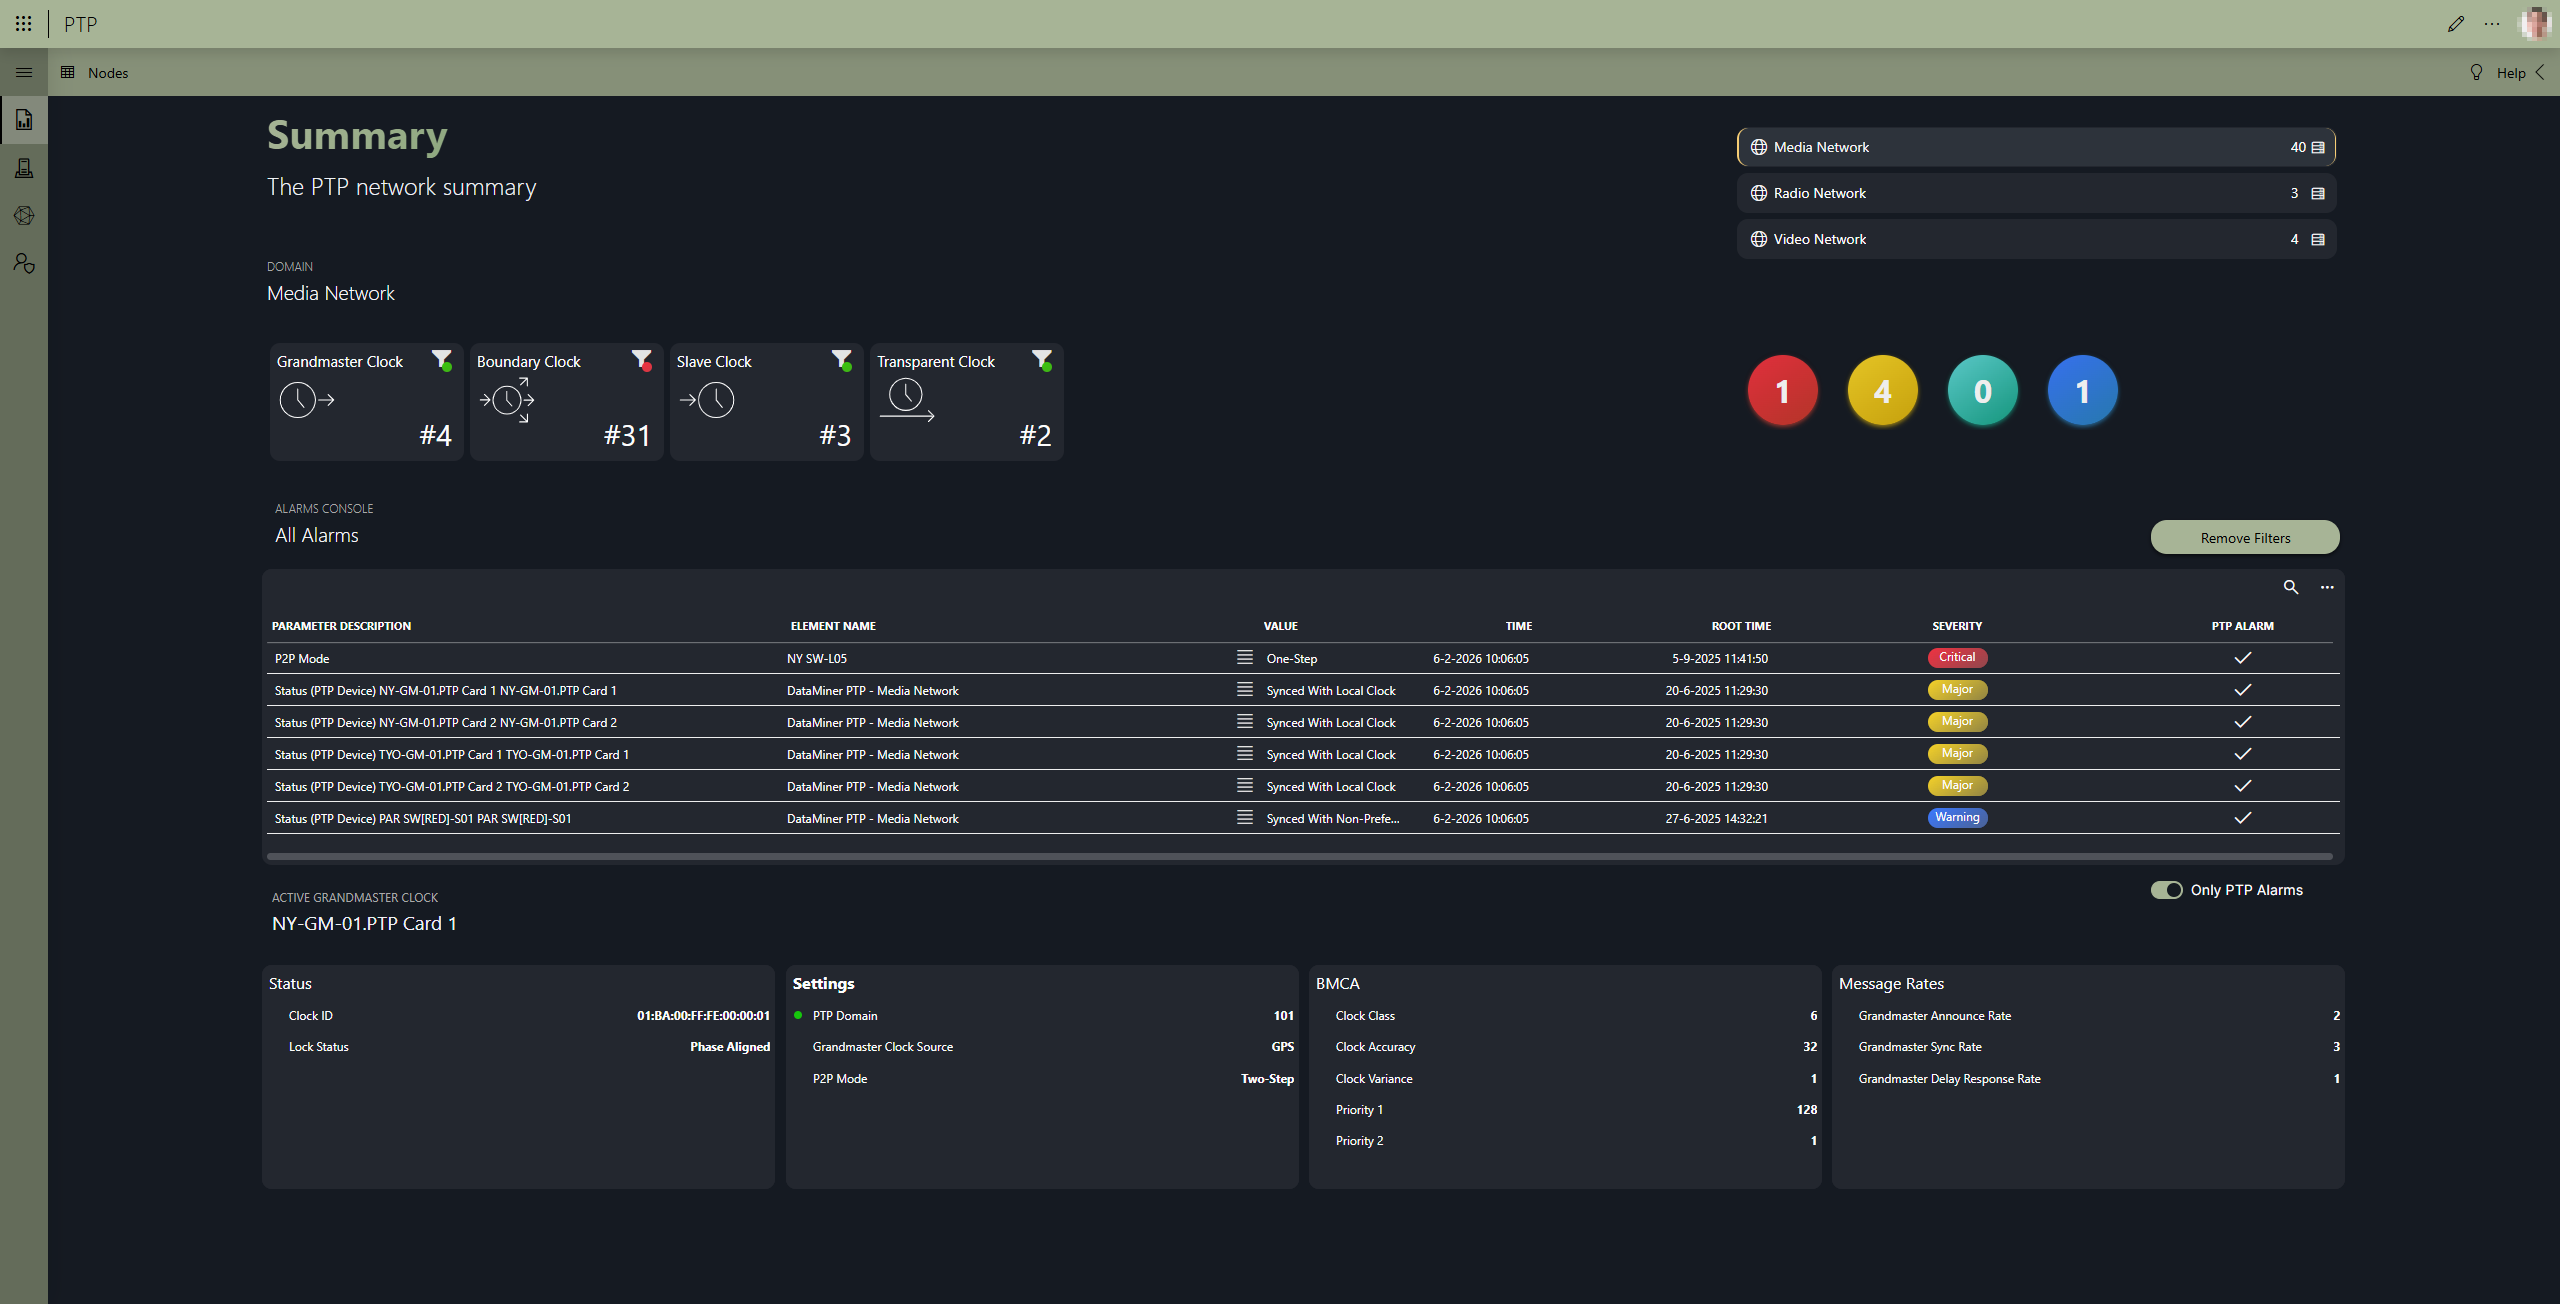
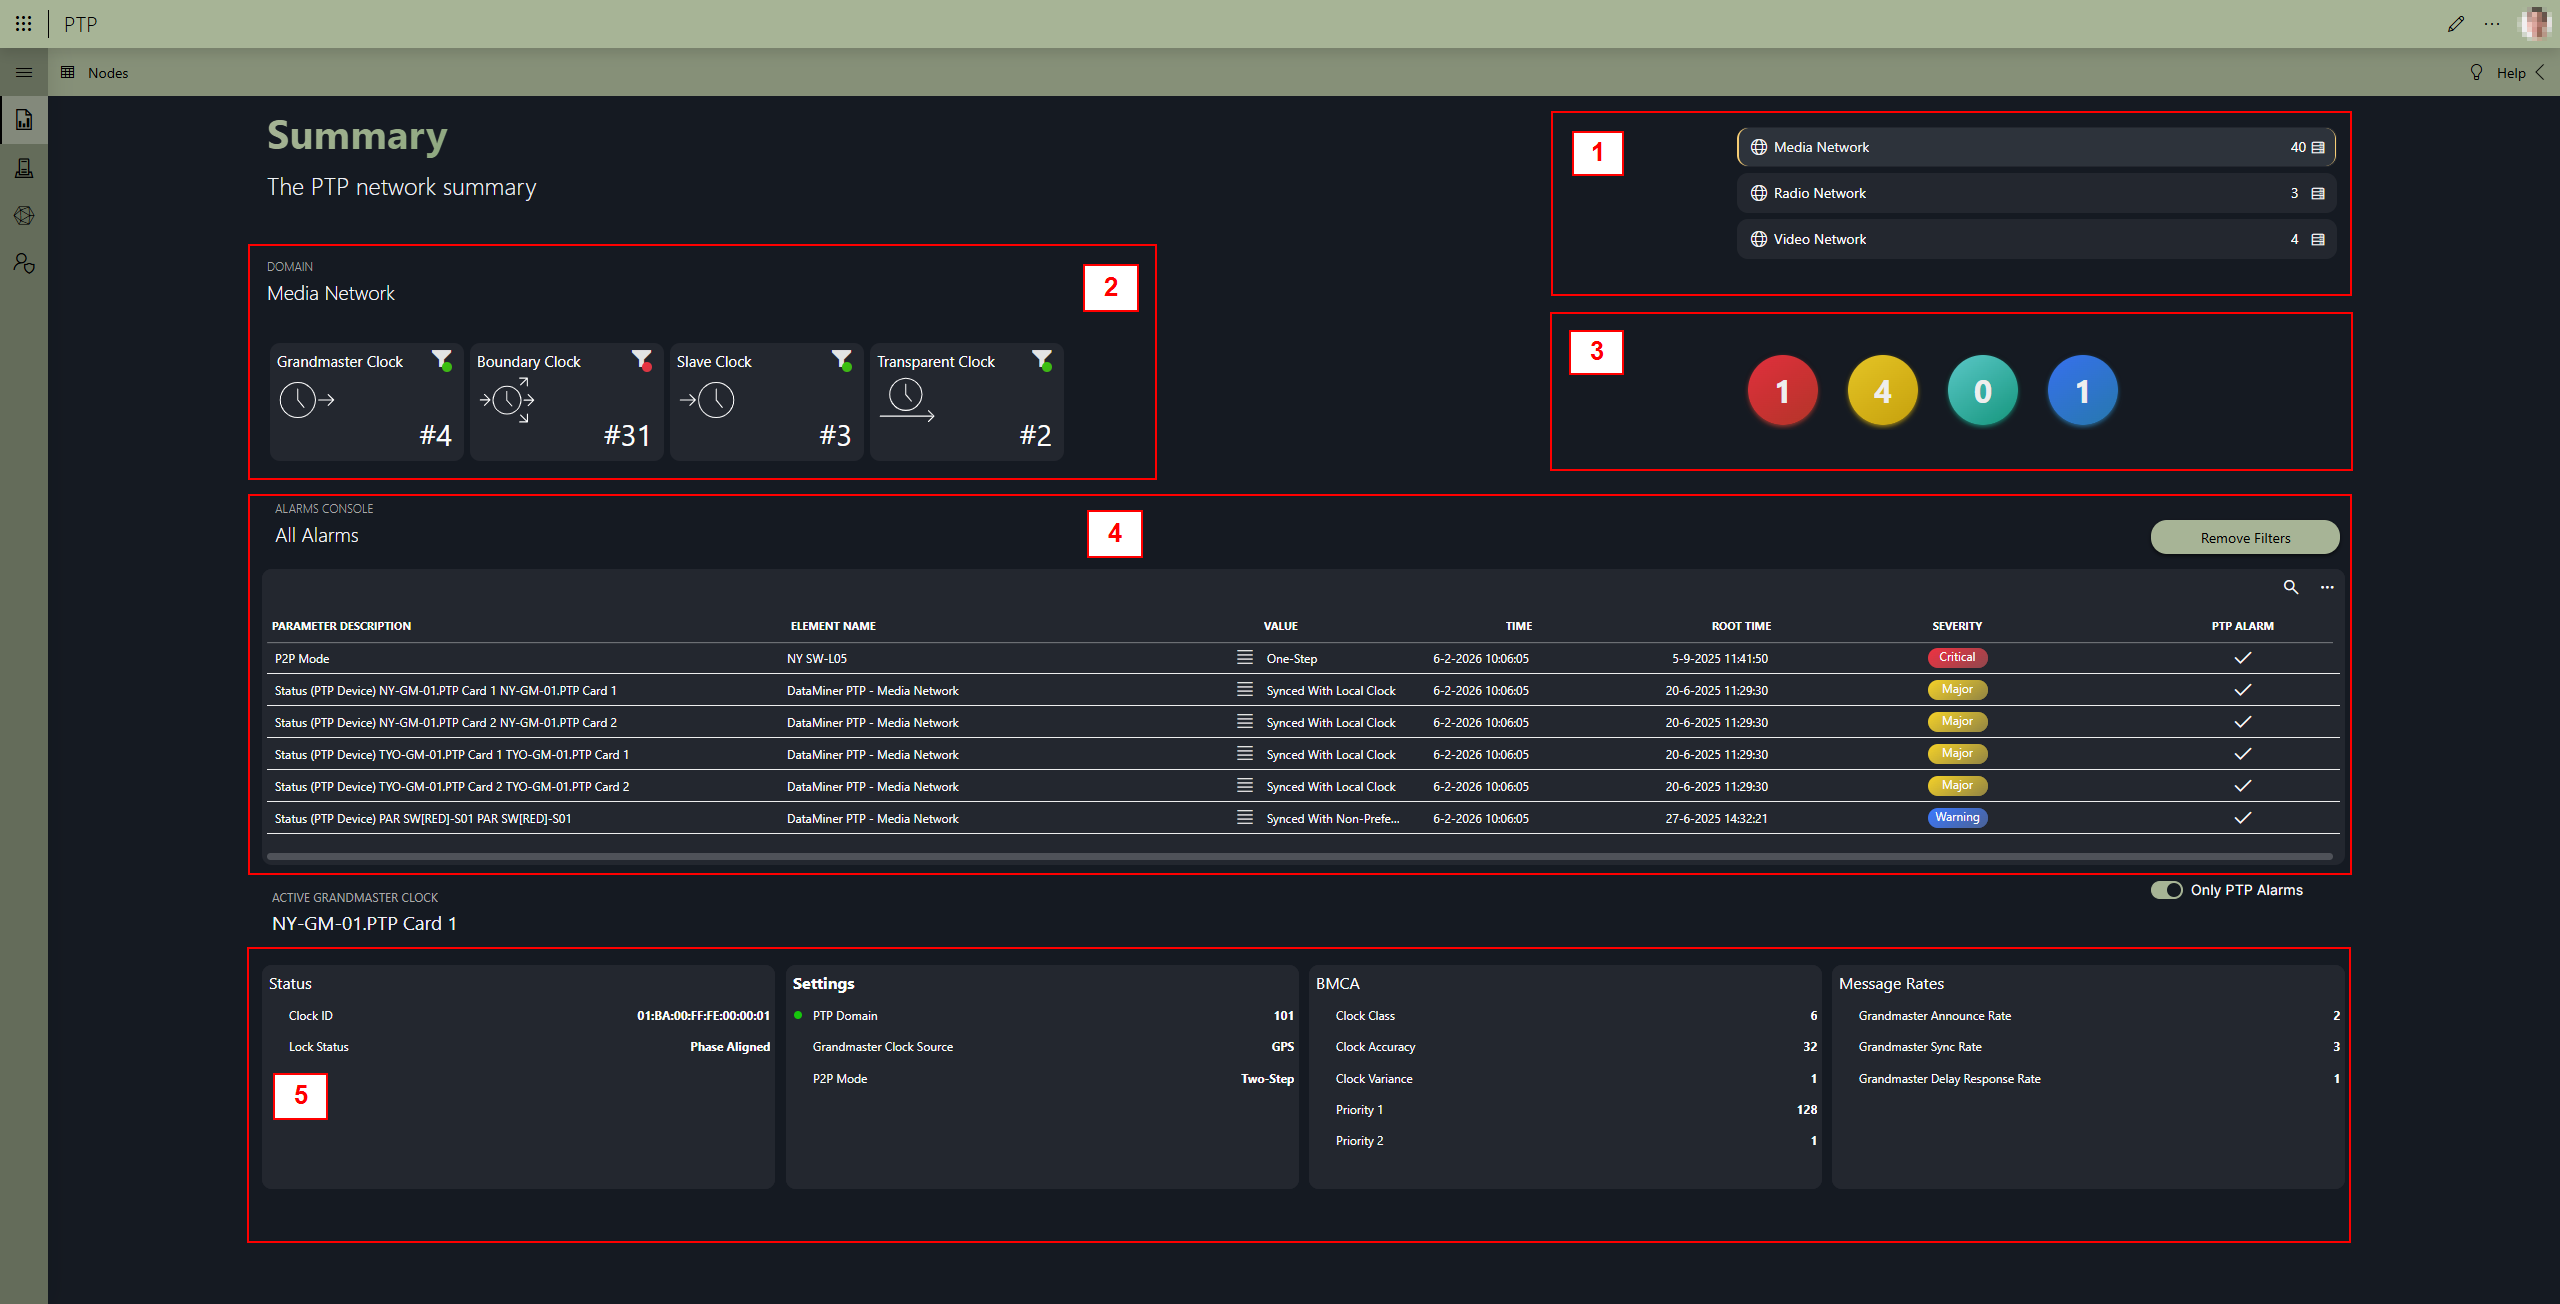
Review

diff --git a/solutions/standard_solutions/PTP/Overview_of_the_PTP_LCA_UI.md b/solutions/standard_solutions/PTP/Overview_of_the_PTP_LCA_UI.md
@@ -15,48 +15,52 @@ From PTP version 1.2.0 onwards, a DataMiner low-code app is available with the f
 
 This page shows a list of configured PTP domains and a summary of the selected domain. The first domain is selected by default.
 
-- The list in the top-right corner shows all the configured PTP domains in the PTP Solution with the number of configured clocks per domain. The selected domain is highlighted. All the other data shown in the app will be related to this selected domain.
-
-- From left to right, the page shows the total number of grandmasters, boundary clocks, transparent clocks, and slave clocks in the selected PTP domain. The filter icon in each box indicates if there are any active alarms for the respective clock type. When you click the filter icon, the alarm list below will be filtered to the specific clock type.
-
-- On the right, the page shows the total number of alarms in the PTP domain per severity. When clicking the circles, the alarm list below will be filtered to the specific severity.
-
-- The alarm list will show all alarms of the selected PTP domain. By default only PTP-related alarms are shown, this can be switched to show all alarms of the equipment included in the PTP domain.
-
-  From the context menu next to the element name, the monitoring app and a details panel for the specific element can be opened.
-
-- At the bottom of the page, general parameters of the detected active grandmaster are shown.
-
 ![Summary page](~/solutions/images/PTP_Summary.png)
+
+- In the top-right corner (1), you can see the configured PTP domains in the PTP Solution with the number of configured clocks per domain. The selected domain is highlighted. All the other data shown in the app will be related to this selected domain.
+
+- On the left (2), from left to right, the page shows the total number of grandmasters, boundary clocks, transparent clocks, and slave clocks in the selected PTP domain. The filter icon in each box indicates if there are any active alarms for the respective clock type. When you click the filter icon, the alarm list below will be filtered to the specific clock type.
+
+- On the right (3), the page shows the total number of alarms in the PTP domain per severity. When you click one of the circles, the alarm list below will be filtered to the specific severity.
+
+- The alarm list (4) will show all alarms of the selected PTP domain. By default only PTP-related alarms are shown, but you can use the toggle button below the list to also show all alarms of the equipment included in the PTP domain.
+
+  In the list, a hamburger button ![Hamburger button](~/solutions/images/PTP_Hamburger_button.png) is shown next to each element name. This opens a context menu that provides access to the monitoring app and a details panel for the element.
+
+- At the bottom of the page (5), general parameters of the detected active grandmaster are shown.
 
 ## The Nodes page
 
-This page lists all PTP nodes in the domain, grouped by PTP role, with icons showing the element alarm state for each node. From the context menu next to the element name, the monitoring app and a details panel for the specific element can be opened.
-
-At the top-right, there is an option to only show the nodes with active alarms. These states are updated in real-time, there is no need to refresh the page.
-
-The tabs on this page allow for easy comparison between multiple nodes of the same clock type.
+This page lists all PTP nodes in the domain, grouped by PTP role, with icons showing the element alarm state for each node.
 
 ![Nodes page](~/solutions/images/PTP_Nodes.png)
 
+With the ![Hamburger button](~/solutions/images/PTP_Hamburger_button.png) button next to each element name, you can open a context menu that provides access to the monitoring app and a details panel for the element.
+
+With the toggle button in the top-right corner, you can switch to only showing the nodes with active alarms. The alarm states are updated in real time, so there is no need to refresh the page.
+
+In the header bar, several buttons are available that allow easy comparison between multiple nodes of the same clock type.
+
 ## The Topology page
 
-This page shows a graphical overview of how the different PTP nodes are connected, using DataMiner DCF. For each node, an icon is displayed indicating the type of node. For more information on these icons, see [Types of PTP devices](xref:Types_of_PTP_devices). Note that for the grandmaster clocks, the current active grandmaster (as detected by the PTP probe) is indicated by a small star icon on the top-right.
-
-By default, the color of the nodes is indicating the PTP state, this can be changed to the overall element state by hovering over a node, clicking the 'configure color' circle in the top-right and selecting the Element State instead of the PTP state. Note that this change needs to be done for every clock type seperatly.
-
-In the bottom right corner, there is the option to hide all the slave clocks.
-
-To change the position of the nodes, click and drag a node to the desired position. Multiple nodes can be selected by holding the Ctrl key.
-
-> [!NOTE]
-> When upgrading the PTP solution to version 1.2.0 or later, the positions used in the Visio Topology will be copied over to the positions for the Low-Code APP. After this upgrade, the positions are not synced in any way.
+This page shows a graphical overview of how the different PTP nodes are connected, using DataMiner DCF.
 
 ![Topology page](~/solutions/images/PTP_Topology.png)
 
+For each node, an icon is displayed indicating the type of node. For more information on these icons, see [Types of PTP devices](xref:Types_of_PTP_devices). Note that for the grandmaster clocks, the current active grandmaster (as detected by the PTP probe) is indicated by a small star icon at the top right.
+
+By default, the color of the nodes indicates the PTP state. You can change this to the overall element state by hovering over a node, clicking the *Configure color* circle in the top right, and selecting the element state instead of the PTP state. Note that this change needs to be done for every clock type separately.
+
+With the toggle button in the lower right corner, you can hide or show the slave clocks in the topology.
+
+To change the position of a node, click and drag the node to its desired position. You can select multiple nodes by holding the Ctrl key.
+
+> [!NOTE]
+> When you upgrade the PTP Solution to version 1.2.0 or higher, the positions used in the topology from the Cube app will be copied over to the positions for the low-code app. After this upgrade, the positions are not synced in any way.
+
 ## The Admin page
 
- This page shows all the configured PTP domains. You can add more domains using the *Add Domain* button.
+This page shows all the configured PTP domains. You can add more domains using the *Add Domain* button.
 
 Two action buttons are available in the table for each domain:
 

diff --git a/solutions/standard_solutions/PTP/Installing_the_DataMiner_PTP_app.md b/solutions/standard_solutions/PTP/Installing_the_DataMiner_PTP_app.md
@@ -10,7 +10,7 @@ To deploy or upgrade the DataMiner PTP app:
 
 ### [From DataMiner PTP 1.1.4 onwards](#tab/tabid-1)
 
-The [DataMiner PTP package](https://catalog.dataminer.services/details/9c5eb0a1-43bc-42d2-bca2-de4982ee57d7) can be deployed from the Catalog.
+Deploy the [DataMiner PTP package](https://catalog.dataminer.services/details/9c5eb0a1-43bc-42d2-bca2-de4982ee57d7) from the Catalog.
 
 ### [Prior to DataMiner PTP 1.1.4](#tab/tabid-2)
 
